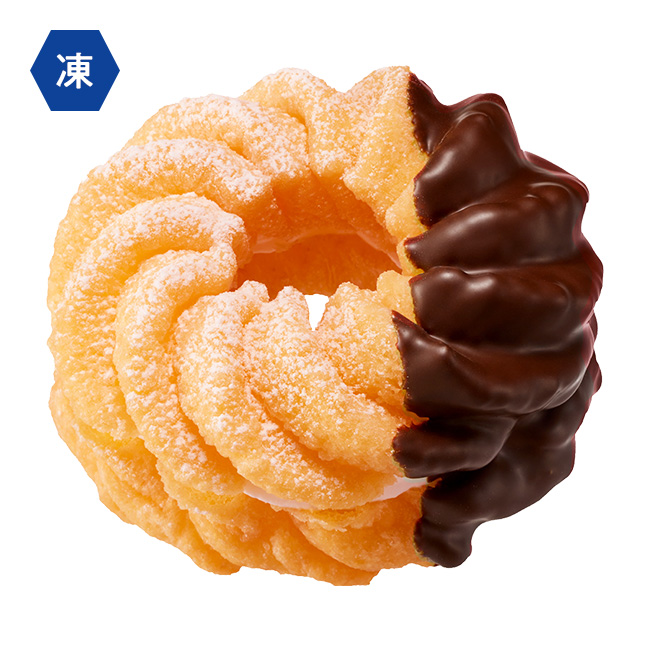
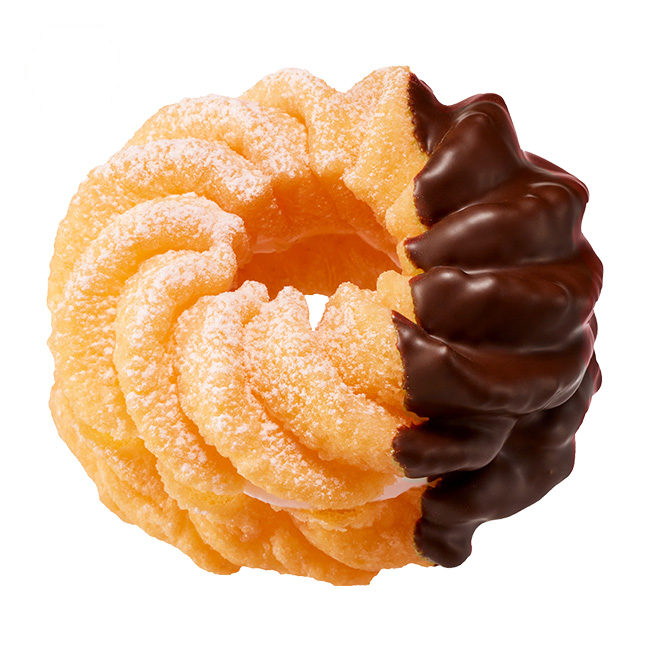
ミスド：おなかが鳴る・ドーナツ写真のマークを消す・切り替えを少し多めに・歩く場面の猫
Claude-Session: https://claude.ai/code/session_011g9CsrfFD5YswfNSvNDW39

Changed region(s): [[0.0308, 0.0308, 0.1846, 0.1846]]

diff --git a/catmeme/jidaraku_12_misdo.py b/catmeme/jidaraku_12_misdo.py
@@ -19,7 +19,7 @@ ROOM, FRONT, CASE, SEAT, STREET, ROOM_N = ("j01_room", "m01_front", "m02_showcas
 # 11/6 外観・ショーケース・席の写真が届いた（外観は右下のロゴが入らないよう下を切った）
 # 仮の背景のある場所（ほかの店の写真は使わない。j01_room は自堕落シリーズの部屋）
 J.BGS += [os.path.join(J.HERE, "backgrounds", d) for d in (os.path.join("jidaraku", "01_yakiniku"), "03_kodomo_nisa", "14_japan", "16_tenchim")]
-J.HOLD = 5   # 11/6 新時代と同じ：素材の切り替えを少なく
+J.HOLD = 4   # 11/7 ユーザー指定：もう少しだけ切り替えを多めに（11/6 は5）
 J.LOOPS = 2
 J.SUB_STYLE = "glow"
 MORNING = os.path.join(L.BGM, "Morning.mp3")
@@ -39,7 +39,7 @@ def cuts():
     return [
         # ---- 日曜の朝・コインランドリー ----（11/6 ユーザー指定：毎回同じ「目が覚めた」で始めない・外出中から）
         s(STREET, "drive_driving_cat", "日曜日の朝10時\nコインランドリーへ向かう", bgm={"file": MORNING, "gain": -12}),
-        s(STREET, "calm_black_face_sheep", "1週間分の洗濯物を\nかかえて歩く"),
+        dict(s(STREET, "walk_approaching_orange_cat", "1週間分の洗濯物を\nかかえて歩く"), new=True),   # 11/6 運転する猫のまま続かないように
         s(STREET, "stare_lying_tabby_cat", "洗濯機を回す\n終わるまで40分"),
         s(STREET, "blank_black_cat_zoning_out", "することがない"),
         s(STREET, "think_chin_paw_orange_cat", "ベンチに座って\n駅前をながめる"),
@@ -69,7 +69,7 @@ def cuts():
         # ---- 来店 ----
         s(FRONT, "leave_cat_leaves_home", "駅前の\nミスタードーナツ", se="whoosh_shu"),
         s(FRONT, "surprise_big_pupils_cat", "あまい香りが\n外までただよっている"),
-        s(FRONT, "happy_hamster_open_arms", "この香りだけで\nごはんが食べられる"),
+        s(FRONT, "happy_hamster_open_arms", "この香りだけで\nおなかが鳴る"),
         s(FRONT, "stare_interviewer_cat", "家族づれ\n学生さん\n近所のおばあちゃん"),
         s(FRONT, "rizz_cat_rizz", "ミスドは\nだれでも入れる店だ"),
         s(FRONT, "yell_orange_fat_cat", "入店", se="gong_match_start"),
